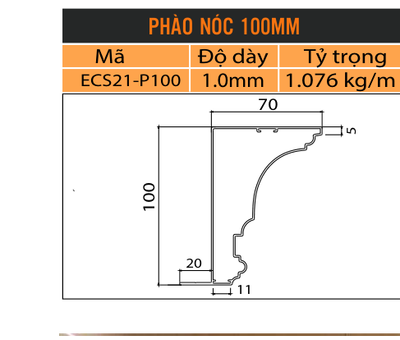
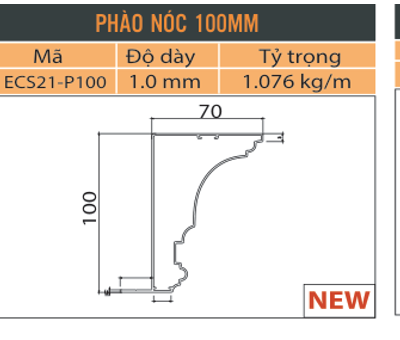
Add R18 profile images for missing systems

diff --git a/apps/api/prisma/seed.ts b/apps/api/prisma/seed.ts
@@ -10,9 +10,8 @@ const FORMULA_TEMPLATE_BACKUP = path.join(__dirname, '..', 'backups', 'formula-t
 // Mật khẩu chung cho tài khoản demo (băm bằng bcrypt khi seed)
 const DEMO_PASSWORD = process.env.DEMO_PASSWORD ?? 'Eurohouse@2026';
 
-// 8/11 hệ nhôm đã có đủ ảnh + mã chuẩn (gom nhóm từ phiếu xuất kho + catalog R17).
-// Còn 3 hệ (Ecento Plus, Phào đại hội, Mặt dựng) đang chờ cắt lại ảnh nguồn — xem
-// tools/profile-crop/out/{ecento-plus,phao-dai-hoi,mat-dung}/ (segment.mjs cắt sai số ô).
+// 11 hệ nhôm đã có đủ mã chuẩn. 8 hệ đầu gom nhóm từ phiếu xuất kho + catalog R17;
+// 3 hệ Ecento Plus, Phào đại hội, Mặt dựng được bổ sung ảnh mặt cắt từ catalog R18.
 const aluSystems = [
   { code: 'EU-55', name: 'Hệ 55 Euroqueen', description: 'Cửa đi & cửa sổ mở quay hệ 55', sortOrder: 1 },
   { code: 'EU-PRECO', name: 'Hệ Preco', description: 'Hệ cửa đi & cửa sổ dòng Preco', sortOrder: 2 },
@@ -22,12 +21,9 @@ const aluSystems = [
   { code: 'EU-TL', name: 'Hệ thủy lực', description: 'Khung thủy lực, mặt dựng', sortOrder: 6 },
   { code: 'EU-NOITHAT', name: 'Hệ nội thất', description: 'Phào, nẹp nội thất trang trí', sortOrder: 7 },
   { code: 'EU-CS', name: 'Hệ chấn song', description: 'Chấn song bảo vệ, trang trí', sortOrder: 8 },
-  // 3 hệ dưới đây CHƯA có ảnh mặt cắt thật (segment.mjs cắt sai số ô khi phân
-  // đoạn PDF catalog — xem tools/profile-crop/out/{ecento-plus,phao-dai-hoi,mat-dung}/).
-  // Mã + tên lấy từ tools/profile-crop/batch-all.mjs, imageUrl để trống (ProfileImage hiện "N/A").
-  { code: 'EU-ECPLUS', name: 'Hệ Ecento Plus', description: 'Cửa đi & cửa sổ dòng Ecento Plus (chưa có ảnh mặt cắt)', sortOrder: 9 },
-  { code: 'EU-PDH', name: 'Hệ phào đại hội', description: 'Phào trang trí đại hội (chưa có ảnh mặt cắt)', sortOrder: 10 },
-  { code: 'EU-MD', name: 'Hệ mặt dựng', description: 'Mặt dựng nhôm kính (chưa có ảnh mặt cắt)', sortOrder: 11 },
+  { code: 'EU-ECPLUS', name: 'Hệ Ecento Plus', description: 'Cửa đi & cửa sổ dòng Ecento Plus', sortOrder: 9 },
+  { code: 'EU-PDH', name: 'Hệ phào đại hội', description: 'Phào trang trí đại hội', sortOrder: 10 },
+  { code: 'EU-MD', name: 'Hệ mặt dựng', description: 'Mặt dựng nhôm kính', sortOrder: 11 },
 ];
 
 // 6 màu sơn tĩnh điện chuẩn Eurohouse
@@ -182,50 +178,48 @@ const profiles: [string, string, string, number, number][] = [
   ['EU-CS', 'ECS21-P100', 'Chấn song tròn phi 100', 1.0, 5],
 ];
 
-// 37 mã thuộc 3 hệ CHƯA có ảnh mặt cắt (xem chú thích ở aluSystems phía trên).
-// Mã/tên/kg lấy từ batch-all.mjs + đối chiếu "pxk mẫu.xlsx"; vài mã không có trong
-// phiếu xuất kho (đánh dấu *) dùng giá trị suy luận từ mã liền kề cùng nhóm.
-const profilesNoImage: [string, string, string, number, number][] = [
+// 37 mã thuộc 3 hệ bổ sung từ EUROHOUSE CATALOG R18 010826.
+const profilesR18: [string, string, string, number, number][] = [
   // == EU-ECPLUS - Hệ Ecento Plus ==
-  ['EU-ECPLUS', 'C3328P', 'Khung bao liền phào', 1.25, 2],
-  ['EU-ECPLUS', 'C3328-1.4', 'Khung bao cửa đi', 1.257, 4],
-  ['EU-ECPLUS', 'EPK116', 'Khung chấn song 116 *', 1.5, 2],
-  ['EU-ECPLUS', 'EPD98', 'Cánh cửa đi', 1.469, 2],
+  ['EU-ECPLUS', 'C3328P', 'Khung bao liền phào', 1.179, 2],
+  ['EU-ECPLUS', 'C3328-1.4', 'Khung phẳng', 0.948, 4],
+  ['EU-ECPLUS', 'EPK116', 'Khung ôm tường Ecento Plus', 1.553, 2],
+  ['EU-ECPLUS', 'EPD98', 'Cánh cửa đi', 1.363, 2],
   ['EU-ECPLUS', 'EPS78', 'Cánh cửa sổ', 1.127, 2],
   ['EU-ECPLUS', 'EPTD80', 'Đố cánh', 1.008, 2],
-  ['EU-ECPLUS', 'C3323-ND', 'Đố động (biến thể ND) *', 1.08, 4],
+  ['EU-ECPLUS', 'C3323-ND', 'Đố động dùng chung', 0.789, 4],
   ['EU-ECPLUS', 'C3313', 'Đố khung', 0.899, 4],
   ['EU-ECPLUS', 'C3329A', 'Ốp chân cánh', 0.458, 10],
-  ['EU-ECPLUS', 'C3296', 'Sập kính', 0.237, 10],
-  ['EU-ECPLUS', 'EPS78S', 'Cánh cửa sổ (biến thể S)', 1.127, 4],
-  ['EU-ECPLUS', 'EPD98S', 'Cánh cửa đi (biến thể S)', 1.469, 2],
+  ['EU-ECPLUS', 'C3296', 'Nẹp kính vách', 0.237, 10],
+  ['EU-ECPLUS', 'EPS78S', 'Cánh cửa sổ sập rời', 1.012, 4],
+  ['EU-ECPLUS', 'EPD98S', 'Cánh cửa đi sập rời', 1.275, 2],
   ['EU-ECPLUS', 'E70SH', 'Sập kính thường', 0.266, 10],
   ['EU-ECPLUS', 'T9809', 'Sập kính hộp', 0.214, 10],
   ['EU-ECPLUS', 'EPD138', 'Cánh cửa đi 138', 1.817, 1],
-  ['EU-ECPLUS', 'EPD125P', 'Cánh cửa đi 125 (liền phào) *', 1.6, 2],
-  ['EU-ECPLUS', 'EPS20-125', 'Sập kính hộp 125', 0.35, 10],
-  ['EU-ECPLUS', 'EPS12-125', 'Sập kính thường 125', 0.35, 10],
-  ['EU-ECPLUS', 'EPD138P', 'Cánh cửa đi 138 (liền phào) *', 1.9, 1],
-  ['EU-ECPLUS', 'EPSV11', 'Sập vách kính hộp *', 0.3, 10],
+  ['EU-ECPLUS', 'EPD125P', 'Cánh cửa đi liền phào 125', 1.525, 2],
+  ['EU-ECPLUS', 'EPS20-125', 'Nẹp kính hộp 20mm', 0.311, 10],
+  ['EU-ECPLUS', 'EPS12-125', 'Nẹp kính 12mm', 0.343, 10],
+  ['EU-ECPLUS', 'EPD138P', 'Cánh liền phào 138', 2.113, 1],
+  ['EU-ECPLUS', 'EPSV11', 'Sập vách phẳng', 0.338, 10],
+  ['EU-ECPLUS', 'EPT90', 'Đố khung bản 90mm', 1.331, 2],
   // == EU-PDH - Hệ phào đại hội ==
   ['EU-PDH', 'DH01', 'Khung chính (Phào đại PĐ01)', 1.423, 1],
   ['EU-PDH', 'DH02', 'Cột phụ (Phào đại PĐ02)', 0.361, 10],
   ['EU-PDH', 'DH03', 'Đế ốp (Phào đại PĐ03)', 0.228, 10],
-  ['EU-PDH', 'DH04', 'Phào đại PĐ04 *', 0.3, 10],
-  ['EU-PDH', 'DH05', 'Phào đại PĐ05 *', 0.3, 10],
+  ['EU-PDH', 'DH04', 'Cột chính ghép pano', 0.606, 10],
+  ['EU-PDH', 'DH05', 'Cột phụ cải tiến', 0.439, 10],
   ['EU-PDH', 'KH01CT', 'Phào đỉnh', 0.69, 4],
   ['EU-PDH', 'EPV01', 'Phào nối đỉnh', 0.348, 10],
-  ['EU-PDH', 'ECS21-P100', 'Chấn song tròn phi 100', 1.0, 5],
+  ['EU-PDH', 'ECS21-P100', 'Phào nóc 100mm', 1.076, 5],
   ['EU-PDH', 'KH10', 'Thanh ngang', 0.497, 5],
   ['EU-PDH', 'ECS18', 'Phào cân', 0.344, 10],
-  ['EU-PDH', 'ECS18-2', 'Phào cân (biến thể 2) *', 0.344, 10],
   ['EU-PDH', 'KH09', 'U16', 0.130, 10],
   // == EU-MD - Hệ mặt dựng ==
   ['EU-MD', 'EMD6577', 'Mặt dựng 65x77', 1.615, 2],
   ['EU-MD', 'EMD65100', 'Mặt dựng 65x100', 2.245, 2],
-  ['EU-MD', 'EMD65120', 'Mặt dựng 65x120 *', 2.6, 2],
+  ['EU-MD', 'EMD65120', 'Mặt dựng 65x120', 2.106, 2],
   ['EU-MD', 'EMDK46', 'Khung mặt dựng 46', 0.75, 5],
-  ['EU-MD', 'EMDS38', 'Sập mặt dựng 38 *', 0.2, 10],
+  ['EU-MD', 'EMDS38', 'Cánh cửa sổ mặt dựng', 0.8, 10],
 ];
 
 async function seedFormulaTemplates() {
@@ -353,10 +347,10 @@ async function main() {
     systemIdByCode[sys.code] = created.id;
   }
 
-  // Xoá profile cũ, nạp toàn bộ thanh nhôm (129 có ảnh + 37 chưa có ảnh)
+  // Xoá profile cũ, nạp toàn bộ thanh nhôm (129 mã nền + 37 mã bổ sung từ catalog R18)
   await prisma.orderItem.deleteMany();
   await prisma.profile.deleteMany();
-  for (const [sys, code, name, kg, bundle] of [...profiles, ...profilesNoImage]) {
+  for (const [sys, code, name, kg, bundle] of [...profiles, ...profilesR18]) {
     const hasImage = fs.existsSync(path.join(PROFILES_DIR, `${code}.png`));
     await prisma.profile.create({
       data: {
@@ -434,7 +428,7 @@ async function main() {
     });
   }
 
-  console.log(`Seed xong: ${aluSystems.length} hệ nhôm, ${profiles.length + profilesNoImage.length} thanh nhôm, ${colors.length} màu.`);
+  console.log(`Seed xong: ${aluSystems.length} hệ nhôm, ${profiles.length + profilesR18.length} thanh nhôm, ${colors.length} màu.`);
   const formulaTemplateCount = await seedFormulaTemplates();
   console.log(`Seeded ${formulaTemplateCount} formula templates.`);
 }
